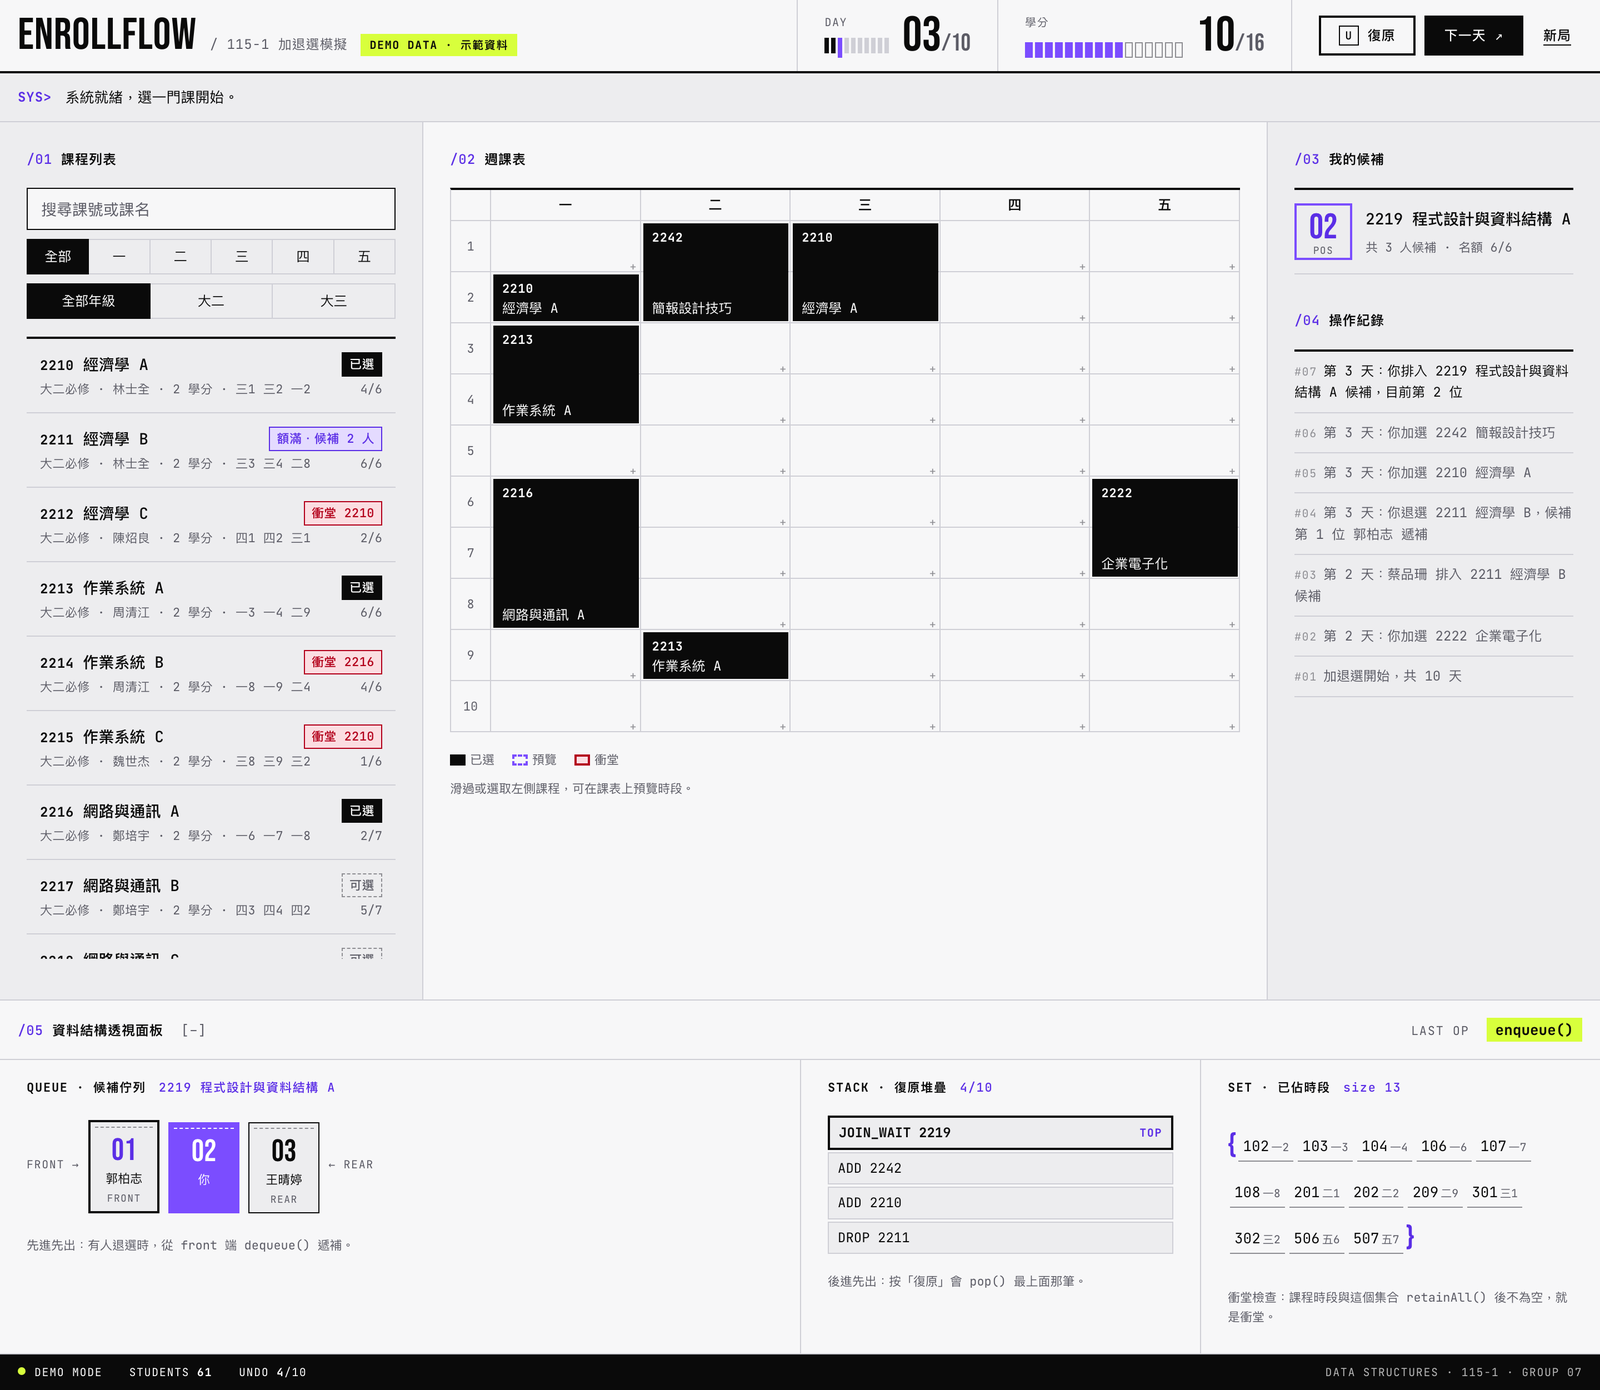
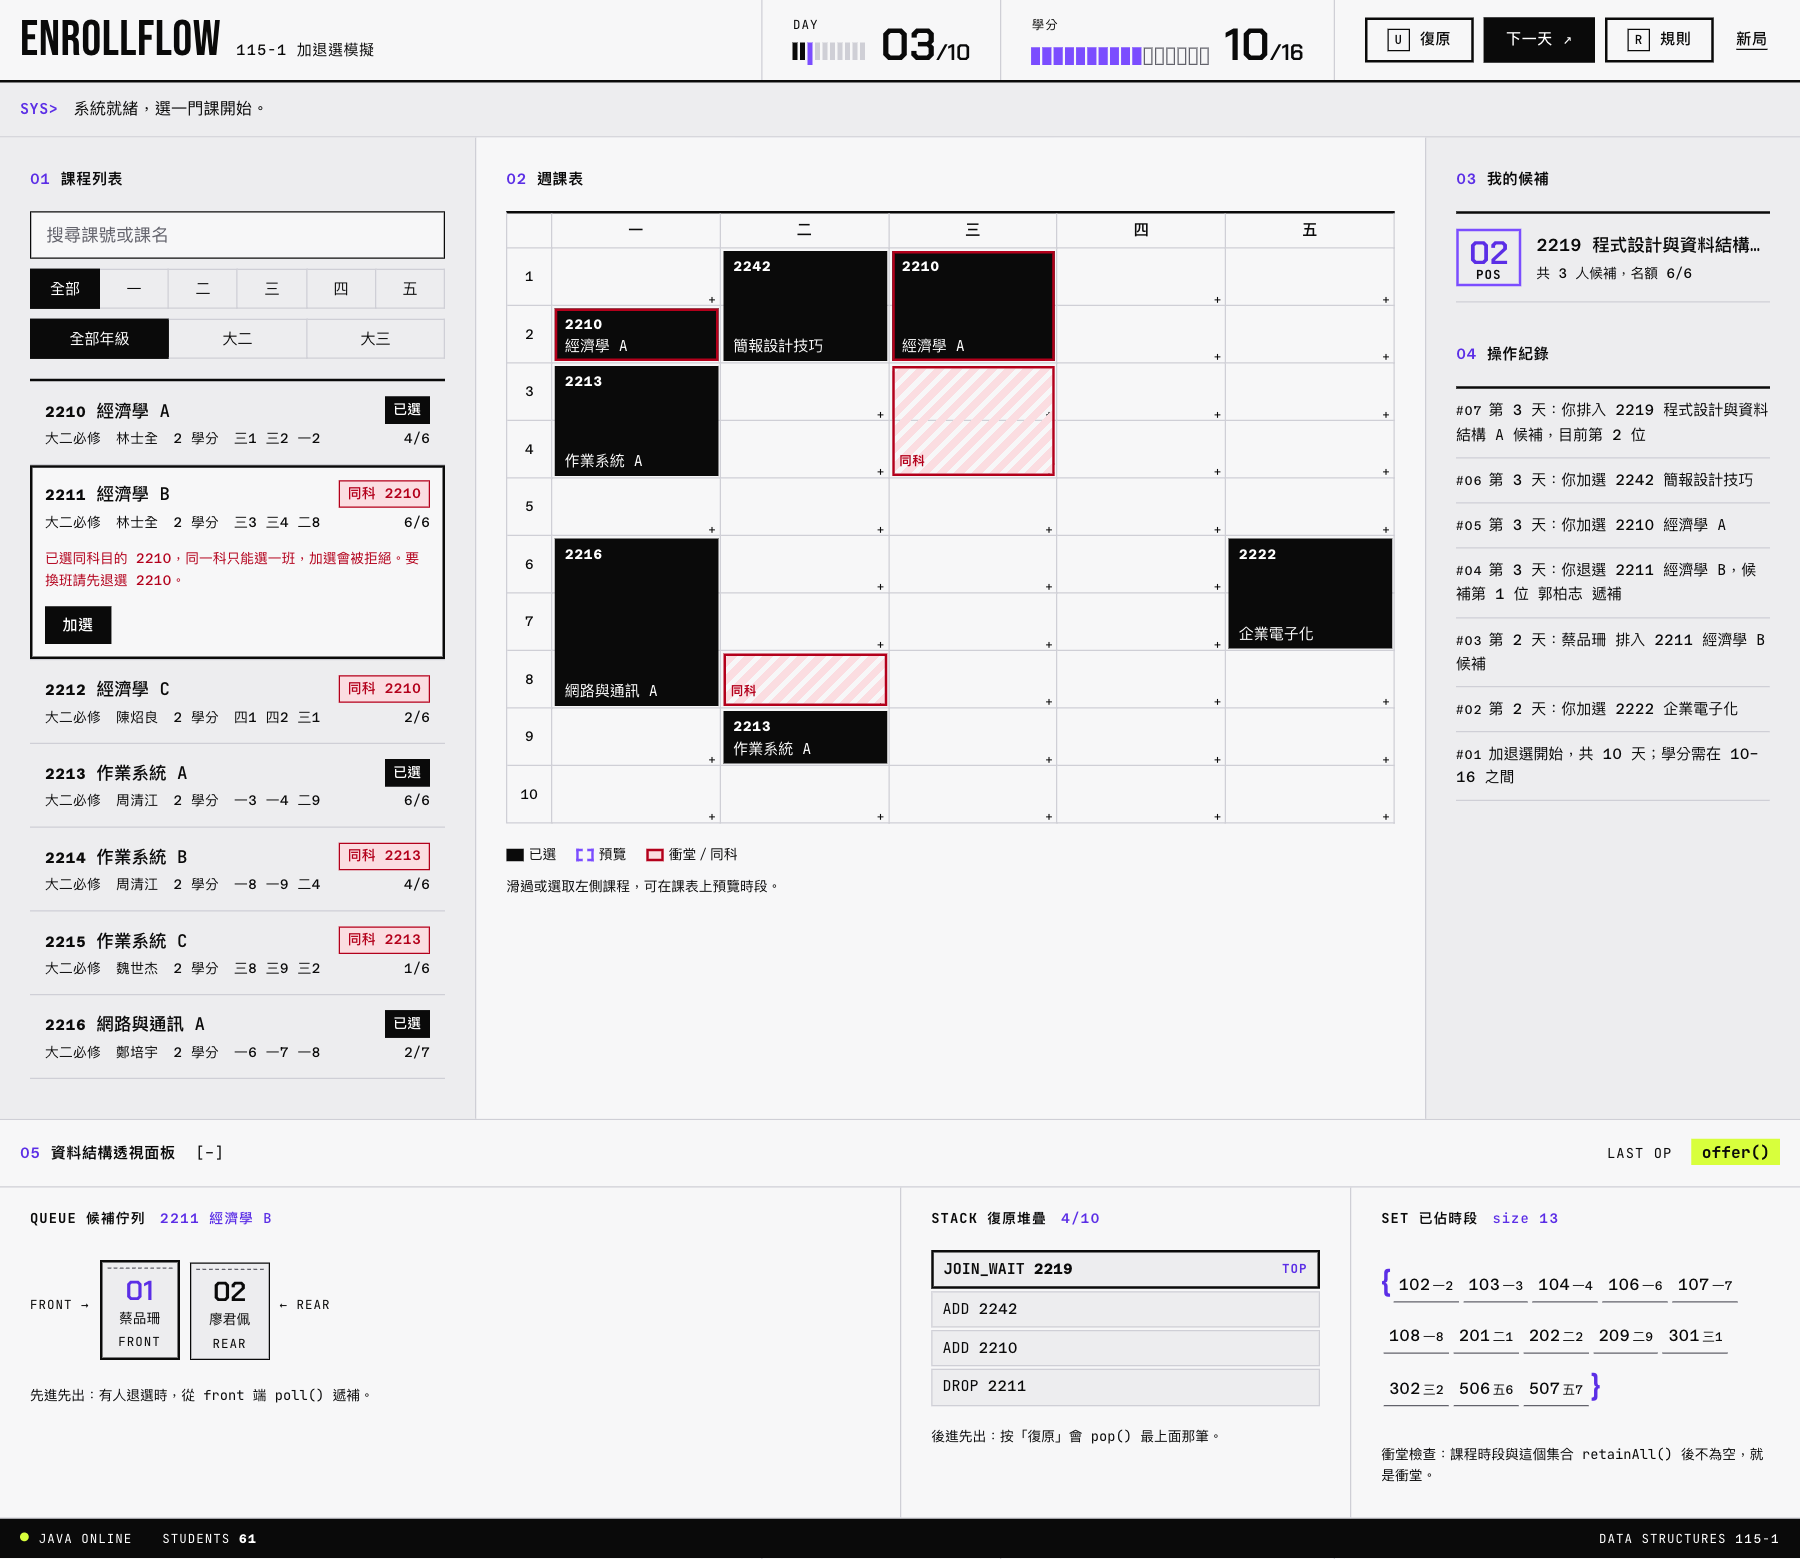
README

diff --git a/README.md b/README.md
@@ -1,0 +1,113 @@
+# EnrollFlow 選課候補模擬器
+
+在瀏覽器裡跑十天加退選，看候補佇列怎麼遞補。淡江資管「資料結構」115-1 期末作品，第 07 組。
+
+**線上試玩：<https://nicktodj-boop.github.io/enrollflow/>**（第一次載入約 15 秒，要下載在瀏覽器裡執行 Java 的 CheerpJ）
+
+![EnrollFlow 主畫面：課程列表、週課表、我的候補、操作紀錄與資料結構透視面板](docs/screenshot.png)
+
+## 玩法
+
+你是一位大二學生，和 60 位模擬同學一起搶 34 門淡江資管 115-1 的真實課程。
+
+- 加退選共 10 天，按「下一天」往前推進，同學每天也會加選、排候補、退選。
+- 學分要在 10 到 16 之間；第 10 天結束時低於 10 學分，會出現失敗畫面。
+- 不能衝堂，同一科只能選一班；額滿的課可以排候補。
+- 有人退選時，系統從候補隊伍最前面開始遞補。排第一位也不保證選上：輪到你時如果衝堂或學分已滿，名額會交給下一位。
+- 選錯了可以復原，最多 10 步；按「下一天」後，前一天的操作就不能復原。
+
+鍵盤快捷鍵：`U` 復原、`R` 打開或關閉規則、`Esc` 關閉。
+
+## 用到的資料結構
+
+五種結構都用 `java.util`，畫面下方的「資料結構透視面板」會即時顯示佇列、堆疊和集合的內容。
+
+| 結構 | 實作 | 用在哪裡 | 主要操作 |
+|---|---|---|---|
+| 佇列 Queue | `LinkedList` | 額滿課程的候補名單 | `offer()`、`poll()` |
+| 堆疊 Stack | `ArrayDeque` | 復原上一步 | `push()`、`pop()` |
+| 集合 Set | `LinkedHashSet` | 自己已佔用的時段，取交集判斷衝堂 | `retainAll()` |
+| 字典 Map | `LinkedHashMap` | 用課號查課程 | `get()` |
+| 清單 List | `ArrayList` | 課程總表、搜尋結果、操作紀錄 | `add()` |
+
+## 執行方式
+
+### 1. Open Project（終端機版）
+
+用 NetBeans、IntelliJ IDEA、Eclipse 或 VS Code 開啟這個資料夾（Maven 專案，設定檔是 `pom.xml`），執行 `g9.enrollflow.Main`。
+
+- 需要 JDK 9 以上：程式守 Java 8 語法，`pom.xml` 用 `maven.compiler.release = 8` 編譯，這個參數要 JDK 9 以上才支援。
+- IDE 會依 `pom.xml` 自動下載 JUnit。
+
+### 2. 指令列（不用 Maven）
+
+```bash
+javac --release 8 -encoding UTF-8 -d out $(find src/main/java -name '*.java')
+java -cp out g9.enrollflow.Main
+```
+
+進入後輸入字母操作：
+
+```
+===== EnrollFlow：資料結構選課候補模擬器 =====
+------------------------------------------------
+ 第 1 / 10 天　學分 0 / 16　可復原 0 步
+ 已選：（無）
+ 候補：（無）
+ C 課程列表  A 加選  D 退選  W 排候補  L 取消候補  U 復原  N 下一天  Q 離開
+> 課號 > [OK] 加選成功：2210 經濟學 A，目前 2 學分
+```
+
+### 3. 在本機跑網頁版
+
+網頁版的畫面是 HTML／JavaScript，選課規則與資料結構全部在 Java，經由 CheerpJ 在瀏覽器裡執行。
+
+```bash
+./run.sh
+```
+
+`run.sh` 會先執行 `build.sh`，把 Java 以 Java 8 bytecode 編到 `docs/`，再用 `server.py` 開本機伺服器，瀏覽器打開 <http://localhost:8001/>。Windows 用 `build.bat` 編譯後執行 `python server.py 8001`。
+
+網址加上 `?demo`（例如 <http://localhost:8001/?demo>）會讀 `docs/demo-state.json` 的示範狀態，不載入 Java，用來看畫面。
+
+### 4. 測試
+
+`src/test/java` 有 25 項 JUnit 5 測試：
+
+- `CourseSystemTest`：加選、退選、候補、遞補、復原與各種邊界情況（額滿、衝堂、超過學分、同科目、找不到課號等）。
+- `SimulationInvariantTest`：300 局隨機操作，每一步檢查課程名單、候補佇列、學生課表與學分彼此一致。
+
+在 IDE 執行 `src/test/java`，或用 Maven 執行 `mvn test`。
+
+## 專案結構
+
+```
+enrollflow/
+├── pom.xml                 Maven 設定（Java 8、主程式 g9.enrollflow.Main）
+├── src/main/java/g9/enrollflow/
+│   ├── CourseSystem.java   對外入口：加選、退選、候補、復原、下一天，所有規則集中在這裡
+│   ├── Course.java         一門課：名額、時段、候補佇列 Queue
+│   ├── Student.java        一位學生：已選課程、已佔時段 Set、學分
+│   ├── Simulator.java      60 位模擬同學每天的行動
+│   ├── Action.java         復原堆疊裡的一筆操作
+│   ├── CourseData.java     34 門真實課程資料
+│   ├── ConsoleUI.java      終端機版介面
+│   └── Main.java           程式進入點
+├── src/test/java/          JUnit 測試
+├── docs/                   網頁版（GitHub Pages 從這裡發布，含編好的 .class）
+├── build.sh / build.bat    編譯網頁版
+├── run.sh                  編譯並啟動本機伺服器
+└── server.py               支援 Range 請求的本機伺服器（CheerpJ 需要）
+```
+
+每個類別與方法都有 Javadoc，資料結構操作的地方註明用途。
+
+## 組員
+
+第 07 組：陳彥宇、洪誼蓁、李佳勳、李哲宇
+
+## 參考
+
+- 課程 W04 教材：[網頁執行 Java：CheerpJ v3 實作指南](https://medium.com/@sekewei/how-to-call-java-classes-in-a-web-page-by-cheerpj-f03d0adf6571)
+- [CheerpJ](https://cheerpj.com/)：在瀏覽器裡執行 Java bytecode
+- 課程資料：淡江大學資訊管理學系 115-1 大二、大三課程，名額縮成 5 到 8 人，讓候補一定會發生；模擬同學的姓名為虛構
